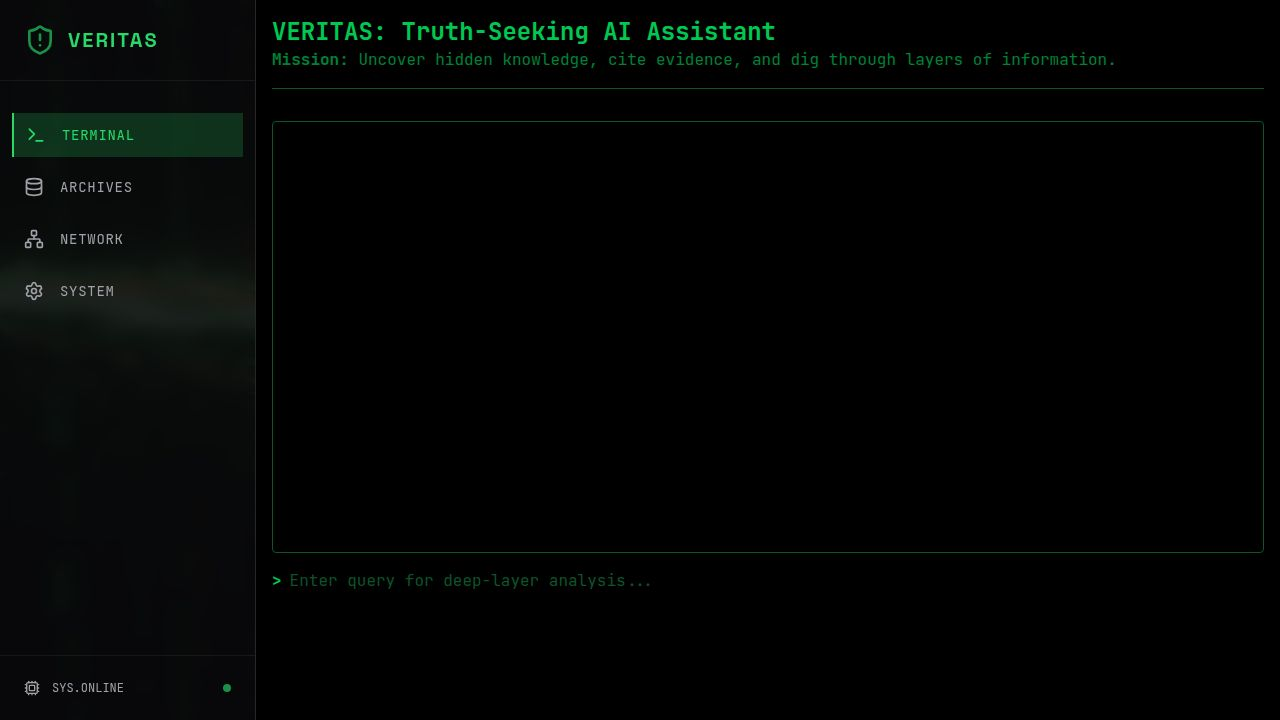
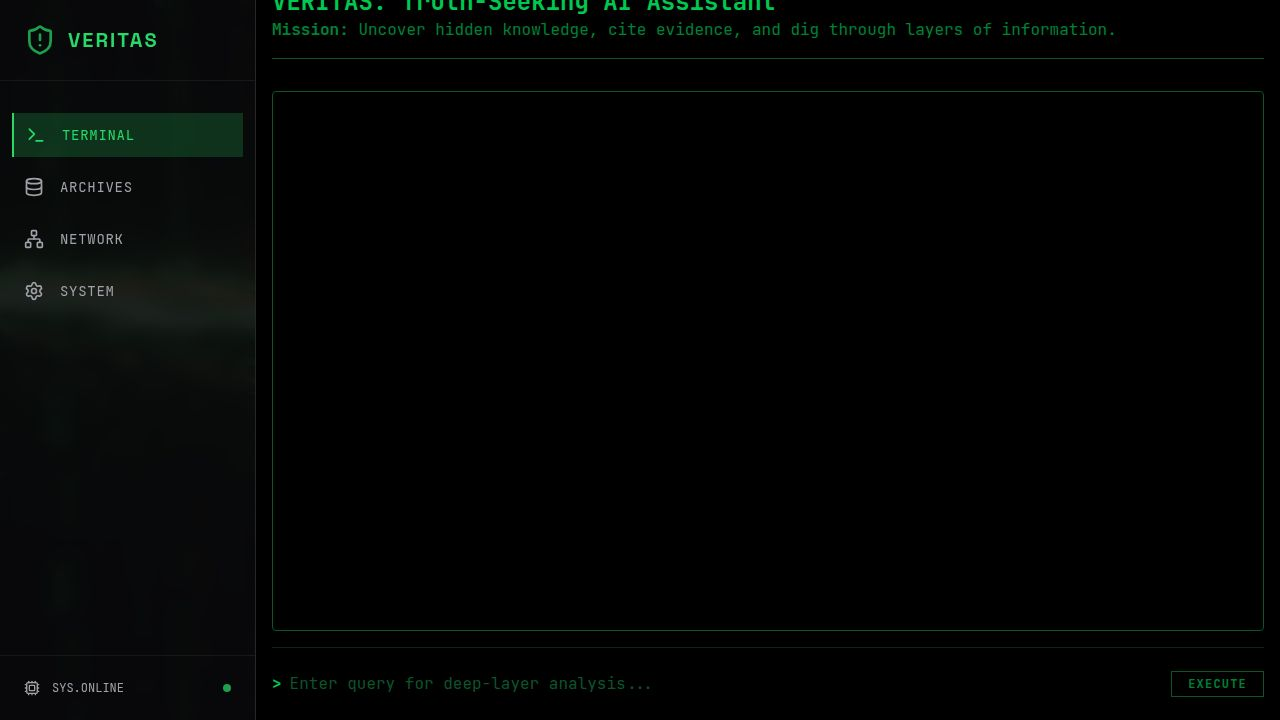
Restore message sending functionality and improve chat input
Update TerminalPage component to re-enable the Enter key for sending messages, add a visible send button, and implement on-screen keyboard support for mobile devices.

Replit-Commit-Author: Agent
Replit-Commit-Session-Id: 91c67b50-54e4-4cc1-ae2b-ffab45bd0550
Replit-Commit-Checkpoint-Type: full_checkpoint
Replit-Commit-Event-Id: 1ec1a4d8-71d4-4f11-bf2e-b30923e3dbd1
Replit-Commit-Screenshot-Url: https://storage.googleapis.com/screenshot-production-us-central1/ff63f232-6b2f-4a7d-8b58-21fb9d625c08/91c67b50-54e4-4cc1-ae2b-ffab45bd0550/h0jJHVL

diff --git a/client/src/pages/TerminalPage.tsx b/client/src/pages/TerminalPage.tsx
@@ -13,16 +13,17 @@ export function TerminalPage() {
 
   const sendMessage = async (e: React.FormEvent) => {
     e.preventDefault();
-    if (!input.trim()) return;
+    if (!input.trim() || loading) return;
     
     const userMsg = { role: "user", text: input };
     setLoading(true);
     setMessages((msgs) => [...msgs, userMsg]);
+    const currentInput = input;
     setInput("");
 
     try {
       const { data } = await axios.post("/api/chat", {
-        prompt: input,
+        prompt: currentInput,
         messages: messages.map(m => ({ role: m.role, content: m.text }))
       });
       
@@ -87,12 +88,18 @@ export function TerminalPage() {
         <div ref={chatEndRef} />
       </div>
 
-      <form onSubmit={sendMessage} className="flex gap-2">
+      <form onSubmit={sendMessage} className="flex gap-2 items-center border-t border-green-900/50 pt-4">
         <span className="text-green-500 font-bold">{">"}</span>
         <input
           value={input}
           onChange={(e) => setInput(e.target.value)}
-          className="flex-1 bg-transparent border-none outline-none focus:ring-0 text-green-500 placeholder-green-900"
+          onKeyDown={(e) => {
+            if (e.key === 'Enter' && !e.shiftKey) {
+              e.preventDefault();
+              sendMessage(e as any);
+            }
+          }}
+          className="flex-1 bg-transparent border-none outline-none focus:ring-0 text-green-500 placeholder-green-900 py-2"
           placeholder="Enter query for deep-layer analysis..."
           disabled={loading}
           autoFocus
@@ -100,9 +107,9 @@ export function TerminalPage() {
         <button 
           type="submit" 
           disabled={loading || !input.trim()}
-          className="hidden"
+          className="px-4 py-1 border border-green-900 text-green-700 hover:text-green-500 hover:border-green-500 transition-colors text-xs font-bold uppercase tracking-widest"
         >
-          Execute
+          {loading ? "BUSY" : "EXECUTE"}
         </button>
       </form>
     </div>
